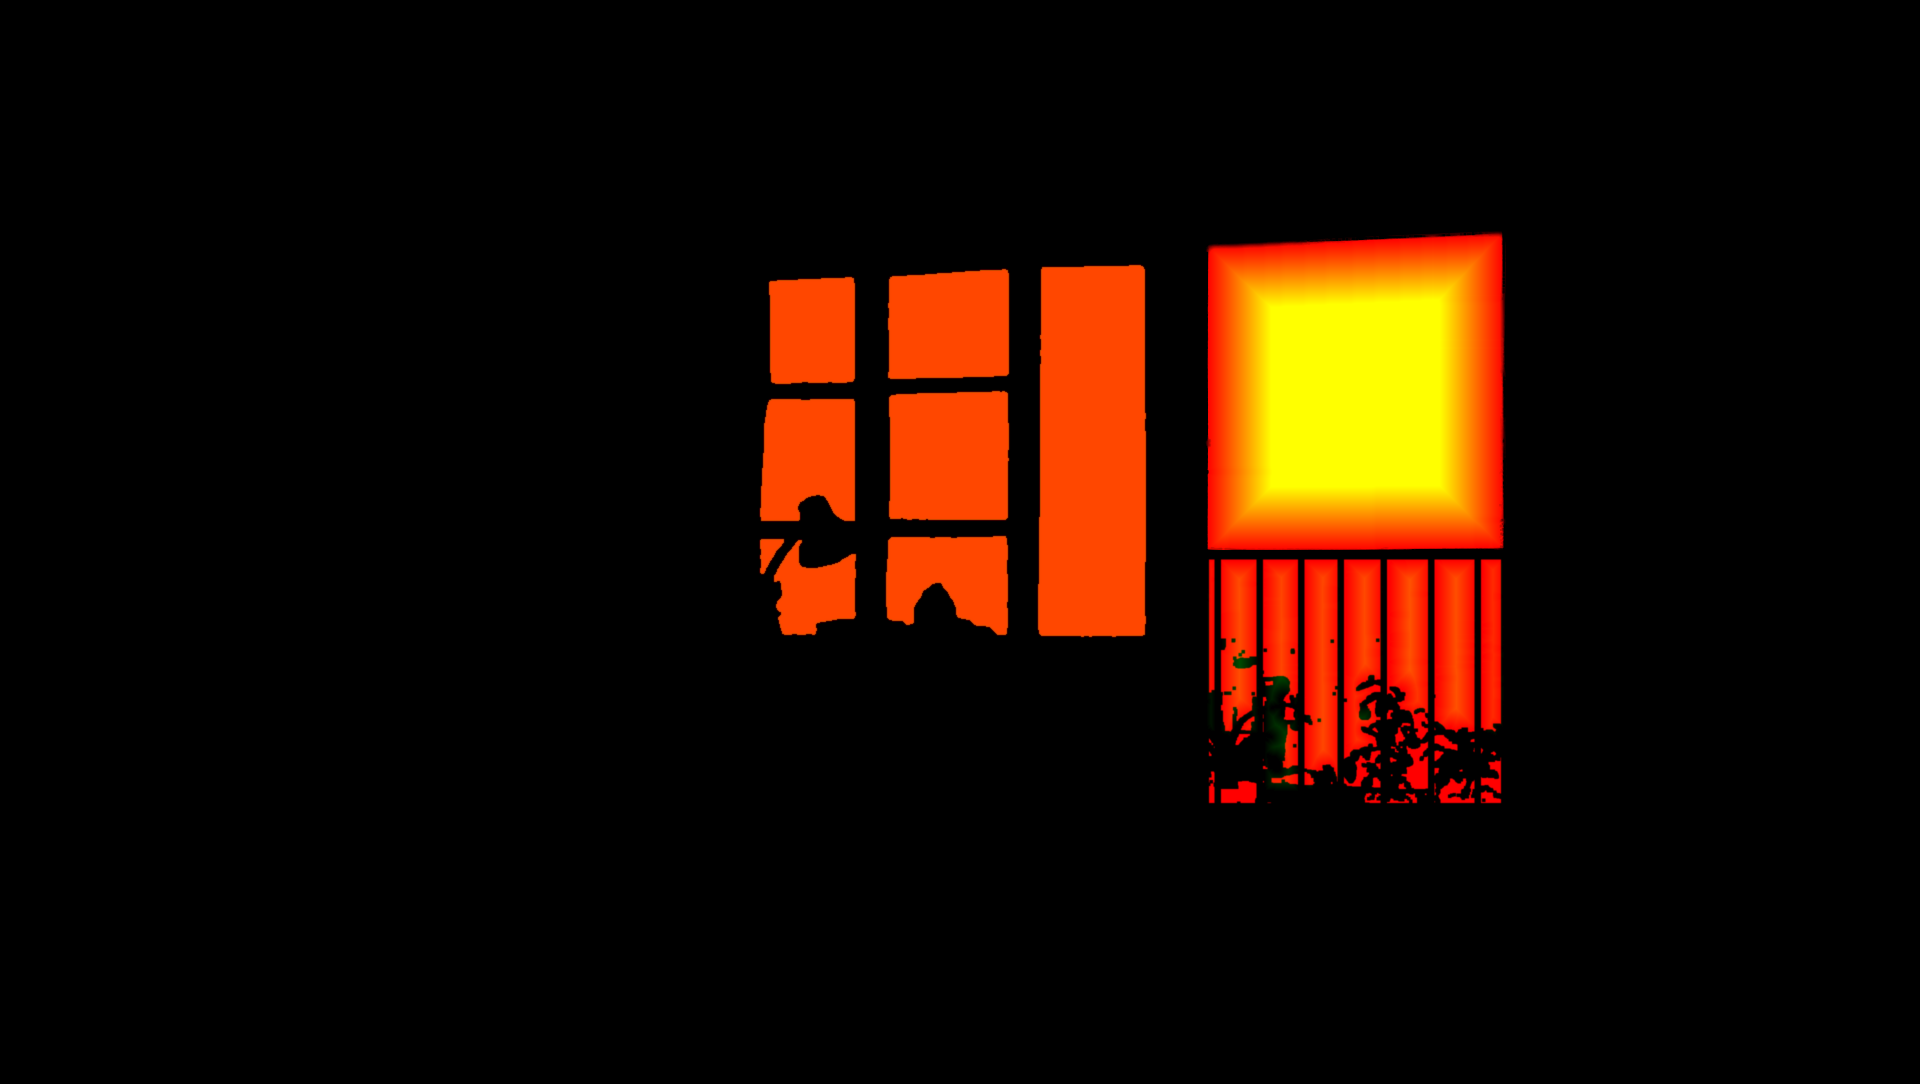
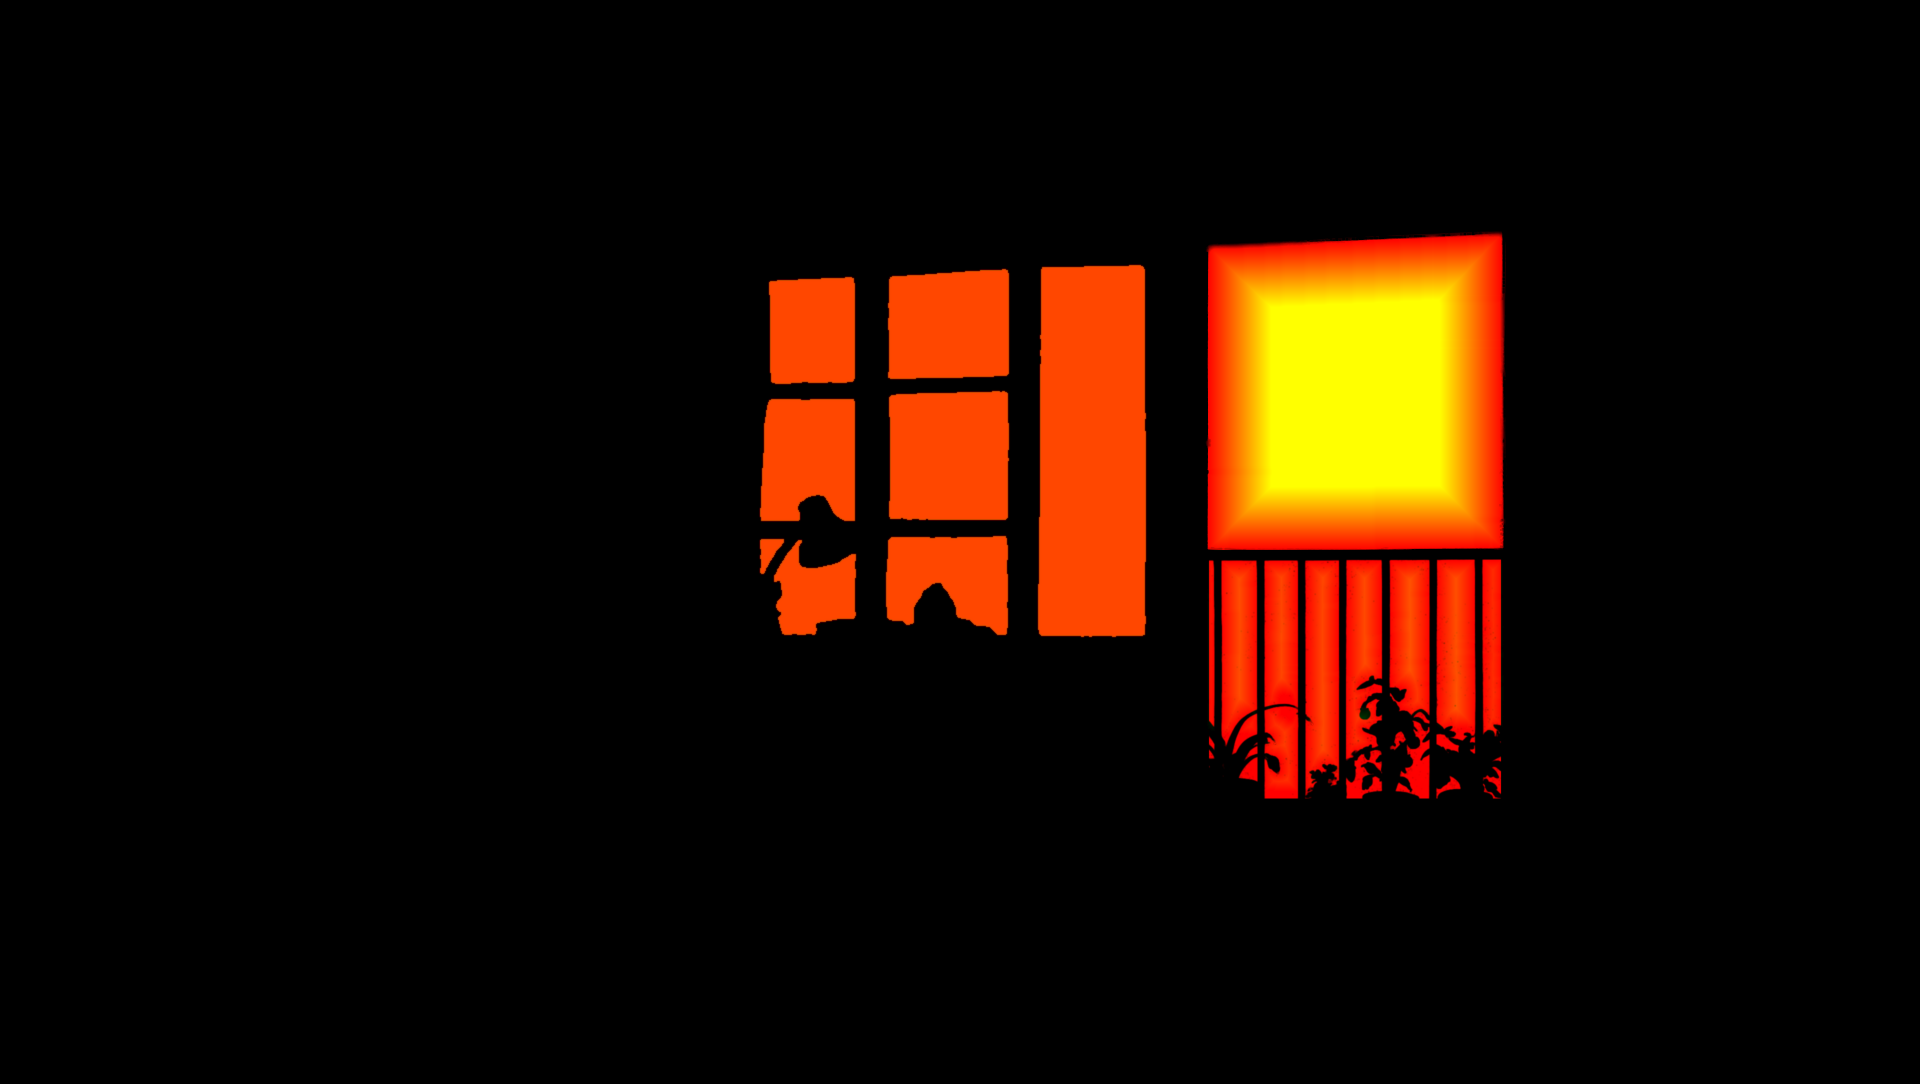
Korea: balcony mask from green-screen key (Seedream), no fringe
Claude-Session: https://claude.ai/code/session_01WmePPEVtycNtDwciTC66yT

Changed region(s): [[0.625, 0.5175, 0.7812, 0.7611]]

diff --git a/public/index.html b/public/index.html
@@ -465,7 +465,7 @@ function setVid(key){const V=VIDS[key];if(vidKey===key&&vidEl)return;if(vidEl){v
   v.addEventListener('playing',()=>{if(vidEl===v)U.uVidOn.value=1},{once:true});const go=()=>v.play().catch(()=>{});go();addEventListener('pointerdown',go,{once:true})}
 const HI4K={room:1,dacha:1,ca:1,korea:1,jp:1,china:1,sea:1,india:1,usa:1,latam:1};const HIRES=(()=>{try{return Math.max(screen.width,screen.height)*(window.devicePixelRatio||1)>=2400}catch(e){return false}})();
 const f4k=(key,n)=>(HIRES&&HI4K[key]&&!LAB&&renderer.capabilities.maxTextureSize>=4096&&/^(plate_|out_)/.test(n))?n.replace('.jpg','_4k.jpg'):n;
-function texFor(key){if(!cache.has(key))cache.set(key,Promise.all(FILES.map(n=>loadTex(((LAB&&LAB[key])||key)+'/'+f4k(key,n)+(/^(out_|mask|plate_|maps|cup_|shadow)/.test(n)?'?v=71':'')))).then(a=>Object.fromEntries(FILES.map((n,i)=>[n.split('.')[0],a[i]]))));return cache.get(key)}
+function texFor(key){if(!cache.has(key))cache.set(key,Promise.all(FILES.map(n=>loadTex(((LAB&&LAB[key])||key)+'/'+f4k(key,n)+(/^(out_|mask|plate_|maps|cup_|shadow)/.test(n)?'?v=72':'')))).then(a=>Object.fromEntries(FILES.map((n,i)=>[n.split('.')[0],a[i]]))));return cache.get(key)}
 function evict(keep){for(const [k,p] of cache)if(!keep.includes(k)){cache.delete(k);p.then(T=>Object.values(T).forEach(t=>t.dispose()))}}
 const tvCan=document.createElement('canvas');tvCan.width=128;tvCan.height=96;const tvCtx=tvCan.getContext('2d');
 const tTV=new THREE.CanvasTexture(tvCan);tTV.minFilter=THREE.LinearFilter;tTV.generateMipmaps=false;

diff --git a/public/lab.html b/public/lab.html
@@ -466,7 +466,7 @@ function setVid(key){const V=VIDS[key];if(vidKey===key&&vidEl)return;if(vidEl){v
   v.addEventListener('playing',()=>{if(vidEl===v)U.uVidOn.value=1},{once:true});const go=()=>v.play().catch(()=>{});go();addEventListener('pointerdown',go,{once:true})}
 const HI4K={room:1,dacha:1,ca:1,korea:1,jp:1,china:1,sea:1,india:1,usa:1,latam:1};const HIRES=(()=>{try{return Math.max(screen.width,screen.height)*(window.devicePixelRatio||1)>=2400}catch(e){return false}})();
 const f4k=(key,n)=>(HIRES&&HI4K[key]&&!LAB&&renderer.capabilities.maxTextureSize>=4096&&/^(plate_|out_)/.test(n))?n.replace('.jpg','_4k.jpg'):n;
-function texFor(key){if(!cache.has(key))cache.set(key,Promise.all(FILES.map(n=>loadTex(((LAB&&LAB[key])||key)+'/'+f4k(key,n)+(/^(out_|mask|plate_|maps|cup_|shadow)/.test(n)?'?v=71':'')))).then(a=>Object.fromEntries(FILES.map((n,i)=>[n.split('.')[0],a[i]]))));return cache.get(key)}
+function texFor(key){if(!cache.has(key))cache.set(key,Promise.all(FILES.map(n=>loadTex(((LAB&&LAB[key])||key)+'/'+f4k(key,n)+(/^(out_|mask|plate_|maps|cup_|shadow)/.test(n)?'?v=72':'')))).then(a=>Object.fromEntries(FILES.map((n,i)=>[n.split('.')[0],a[i]]))));return cache.get(key)}
 function evict(keep){for(const [k,p] of cache)if(!keep.includes(k)){cache.delete(k);p.then(T=>Object.values(T).forEach(t=>t.dispose()))}}
 const tvCan=document.createElement('canvas');tvCan.width=128;tvCan.height=96;const tvCtx=tvCan.getContext('2d');
 const tTV=new THREE.CanvasTexture(tvCan);tTV.minFilter=THREE.LinearFilter;tTV.generateMipmaps=false;
